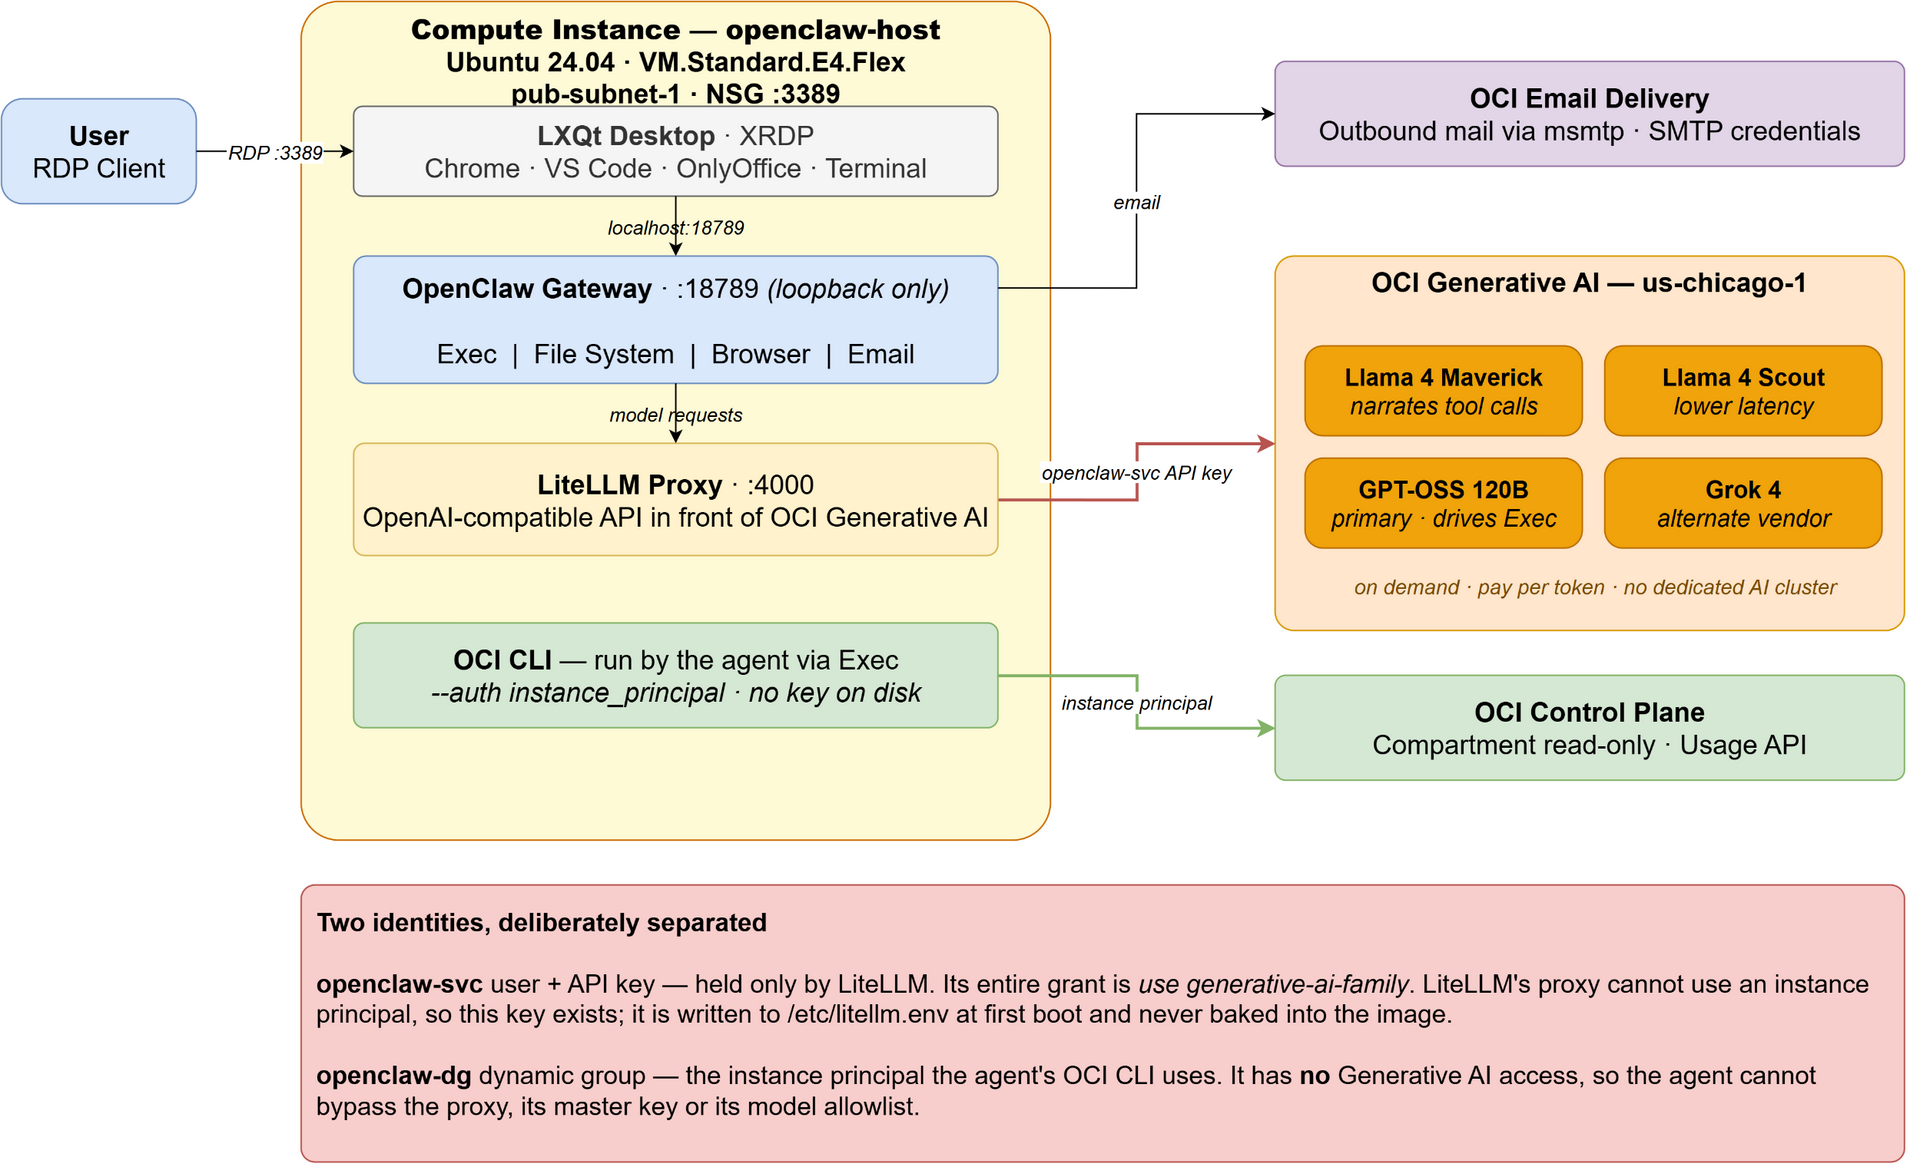
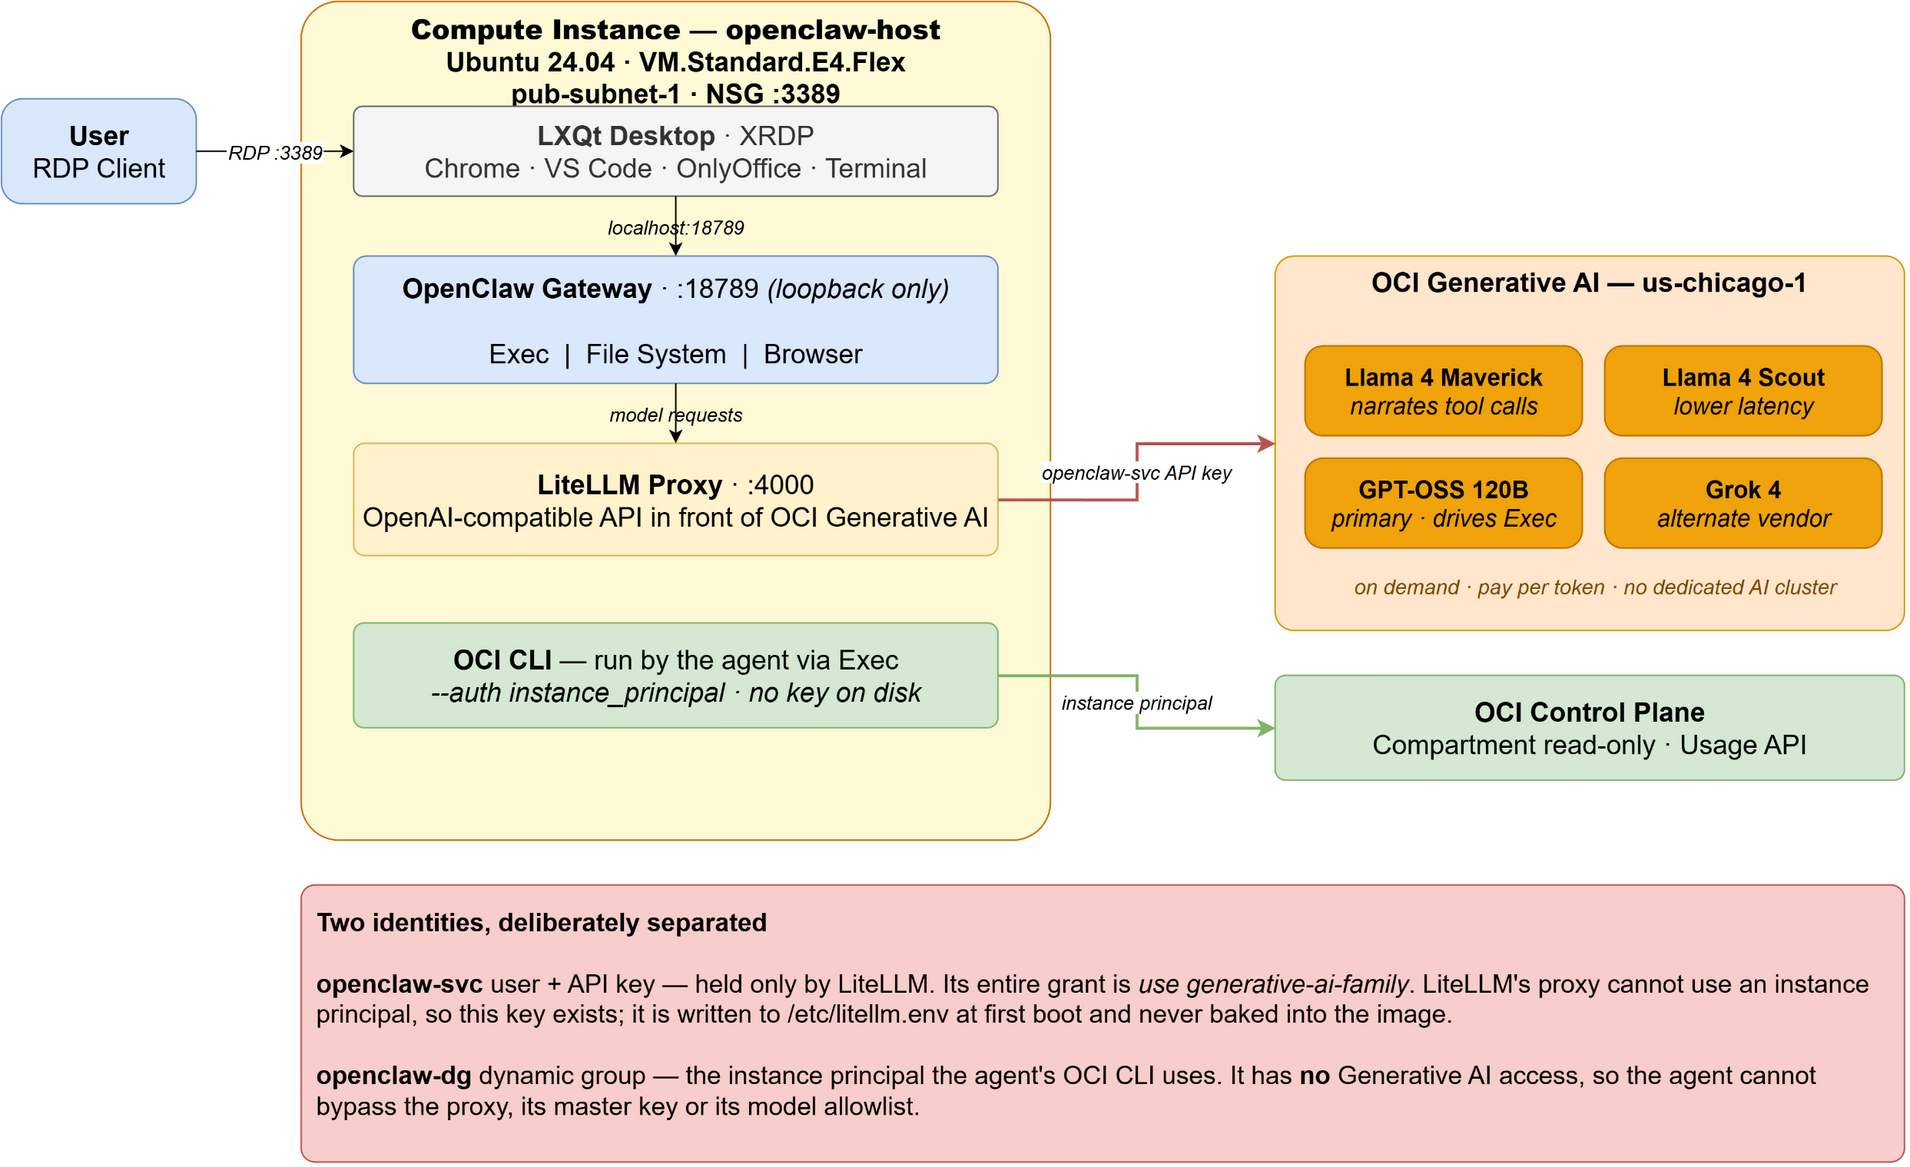
port to oci

Changed region(s): [[0.6487, 0.0308, 1.0, 0.1542], [0.2162, 0.2776, 0.4942, 0.3085], [0.5869, 0.1542, 0.6178, 0.1851]]

diff --git a/README.md b/README.md
@@ -29,33 +29,13 @@ This is the Oracle port of [`aws-openclaw`](../../aws-openclaw), alongside
 
 ## Architecture
 
-```
-                        ┌──────────────────────────────┐
-   RDP :3389 ─────────► │  openclaw-host               │
-                        │  Ubuntu 24.04 + LXQt + XRDP  │
-                        │                              │
-                        │   Chrome ──► localhost:18789 │
-                        │                  │           │
-                        │           openclaw-gateway   │
-                        │                  │           │
-                        │           localhost:4000     │
-                        │           LiteLLM proxy      │
-                        └──────────────────┼───────────┘
-                                           │ signed with the
-                                           │ openclaw-svc API key
-                                           ▼
-                            ┌──────────────────────────────┐
-                            │  OCI Generative AI           │
-                            │  us-chicago-1, on demand     │
-                            │  Llama 4 / gpt-oss / Grok    │
-                            └──────────────────────────────┘
-```
+![oci-openclaw](oci-openclaw.png)
 
 The OpenClaw gateway binds **loopback only**. There is no inbound path to port
 18789 — the UI is reachable from inside the RDP session and nowhere else.
 
 ```
-01-core/          VCN + subnets + NAT + service user/API key + Email Delivery
+01-core/          VCN + subnets + NAT + service user and API key
 02-packer/        Packer build: Ubuntu 24.04 → openclaw-image
 03-openclaw/      Compute instance + NSG + dynamic group + policies
 genai-config.sh   Single source of truth for models + region
@@ -118,8 +98,6 @@ cd oci-openclaw
 ## Build the Code
 
 ```bash
-# Optional — register an approved sender so the agent can send email
-export TF_VAR_email_sender="you@example.com"
 
 # Optional — deploy into a specific compartment (defaults to the tenancy root)
 export OCI_COMPARTMENT_ID="ocid1.compartment.oc1..."
@@ -130,7 +108,7 @@ export OCI_COMPARTMENT_ID="ocid1.compartment.oc1..."
 `apply.sh` runs `check_env.sh` first, then:
 
 1. **01-core** — VCN, subnets, gateways, the `openclaw-svc` user and its API
-   key, and optionally Email Delivery
+   key
 2. **02-packer** — builds `openclaw-image` from Canonical Ubuntu 24.04
 3. **03-openclaw** — the instance, its NSG, the dynamic group and policies
 4. **validate.sh** — prints connection details

diff --git a/CLAUDE.md b/CLAUDE.md
@@ -12,21 +12,21 @@ Port of `aws-openclaw`, completing the set alongside `azure-openclaw`.
 ## Architecture
 
 ```
-01-core/          VCN + subnets + NAT + service user/API key + Email Delivery
+01-core/          VCN + subnets + NAT + service user and API key
 02-packer/        Packer build: Ubuntu 24.04 → openclaw-image
   scripts/        01-packages through 12-onlyoffice
   files/          litellm.service, openclaw-gateway.service, xvfb.service
 03-openclaw/      Compute instance + NSG + dynamic group + policies
   scripts/
     userdata.sh   Boot: set password, write LiteLLM creds + config,
-                  configure msmtp, start systemd services
+                  register models, start systemd services
 genai-config.sh   Single source of truth: the model array, primary, and region
 probe_genai.py    Proves a model actually answers (copied from oci-resume-app)
 ```
 
 ### Deployment Order
 
-1. `01-core` — VCN, `openclaw-svc` user + API key, optional Email Delivery
+1. `01-core` — VCN, `openclaw-svc` user + API key
 2. `02-packer` — Packer builds `openclaw-image`
 3. `03-openclaw` — instance from `openclaw-image`, NSG, instance principal
 
@@ -412,7 +412,6 @@ urllib3 without a RECORD file, which blocks pip's resolver system-wide.
    from it could read them
 4. Writes `/opt/openclaw/litellm-config.yaml` — one entry per configured model
 5. Registers those same models with OpenClaw and sets the primary
-6. Configures msmtp if Email Delivery was enabled
 7. Starts `litellm.service` and `openclaw-gateway.service`
 
 ## Agent Runtime Notes
@@ -422,11 +421,6 @@ needs `--auth instance_principal`; without it the CLI fails with
 `ConfigFileNotFound`, which looks like a permissions problem and is not.
 `09-openclaw-init.sh` writes this into the agent's `SYSTEM.md` and `CLAUDE.md`
 so it does not have to rediscover it.
-
-Email goes through `mail`/msmtp only. The instance principal has **no** Email
-Delivery API permission, so `oci email` will fail — `SYSTEM.md` says so
-explicitly, because an agent that finds the command will otherwise keep
-retrying it.
 
 ## Known Gaps
 

diff --git a/configure.md b/configure.md
@@ -120,7 +120,6 @@ session and nowhere else.
 | Model replies but never calls tools | Switch `GENAI_PRIMARY` in `genai-config.sh` and re-apply `03-openclaw`. Test any model with the tool-calling curl before assuming it cannot — gpt-oss-120b has been observed driving tools despite community configs claiming otherwise |
 | `oci` CLI fails with `ConfigFileNotFound` | The `--auth instance_principal` flag was omitted. There is no `~/.oci/config` on this box by design |
 | `oci` CLI returns 404 on everything | The instance booted before the dynamic group existed. The principal token caches group membership at boot — **restart the instance** |
-| `oci email` fails | Expected. The instance principal has no Email Delivery permission — use `mail` (msmtp) |
 | Change or add models | Edit the `GENAI_MODELS` array in `genai-config.sh` and re-apply `03-openclaw` — the LiteLLM config and the OpenClaw picker are both regenerated at boot. For a throwaway test, edit `/opt/openclaw/litellm-config.yaml` and `sudo systemctl restart litellm` |
 | Services not started | Check cloud-init: `sudo cat /root/userdata.log` |
 | "Selected model was not found by the provider" | LiteLLM is running a stale config. `curl -s localhost:4000/v1/models -H "Authorization: Bearer sk-openclaw" | jq -r .data[].id` — if it lists `PLACEHOLDER-STALE-PROXY-RESTART-LITELLM`, the proxy started at boot before cloud-init wrote the real config. `sudo systemctl restart litellm` |
